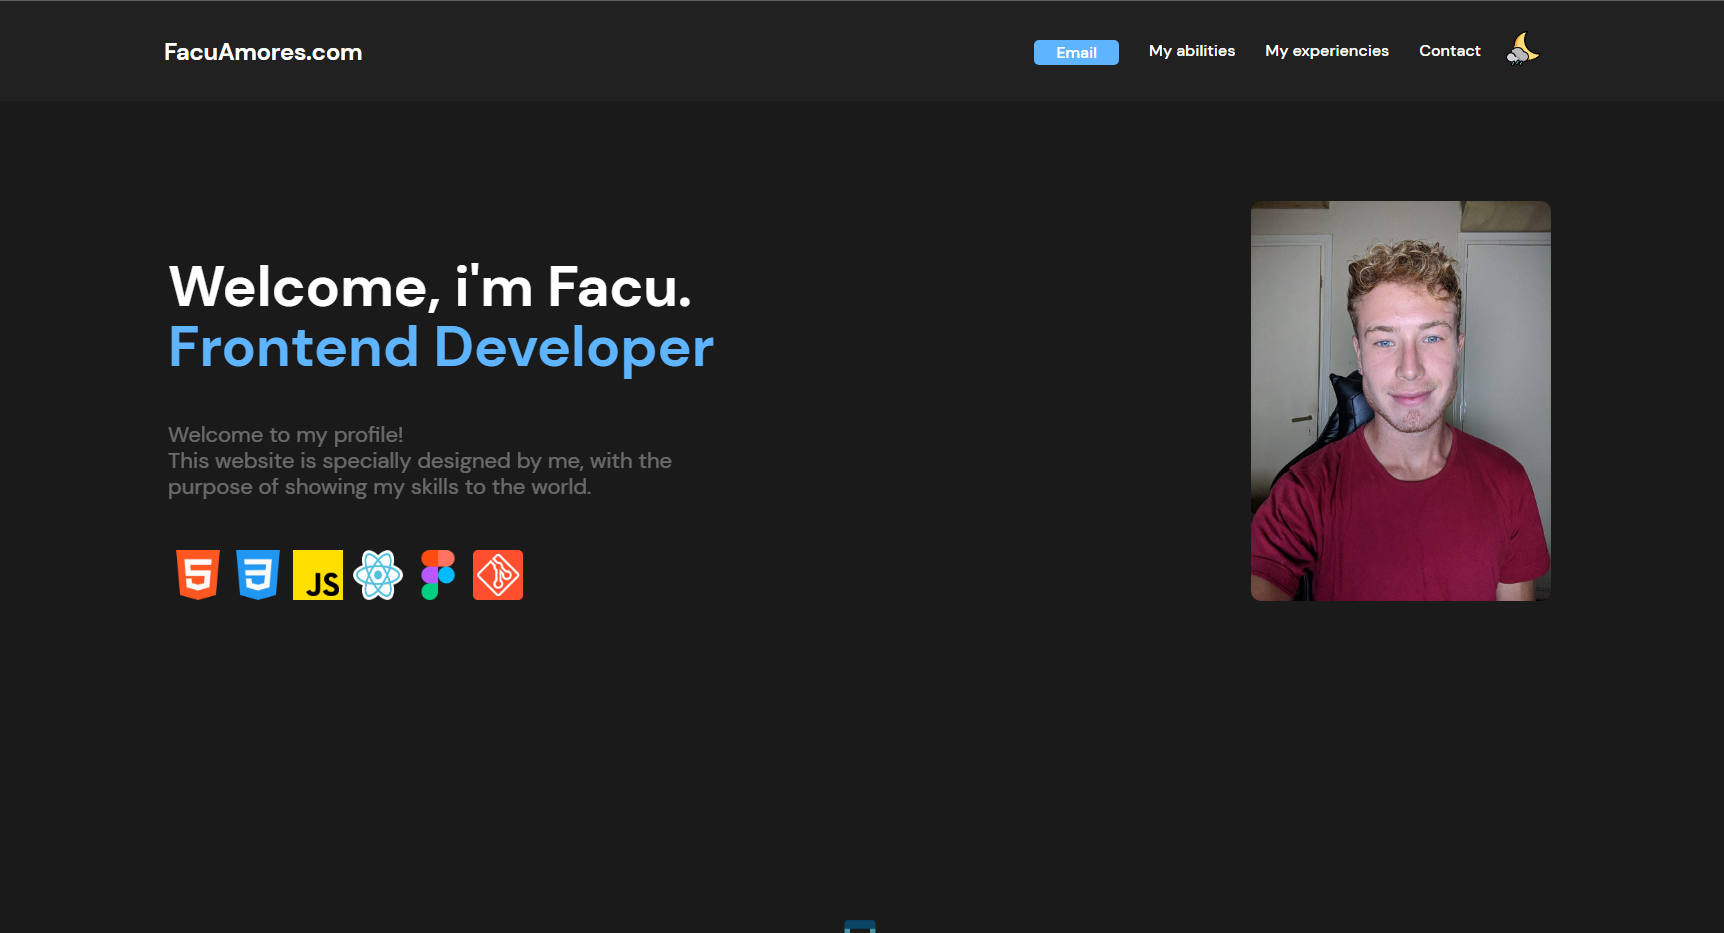
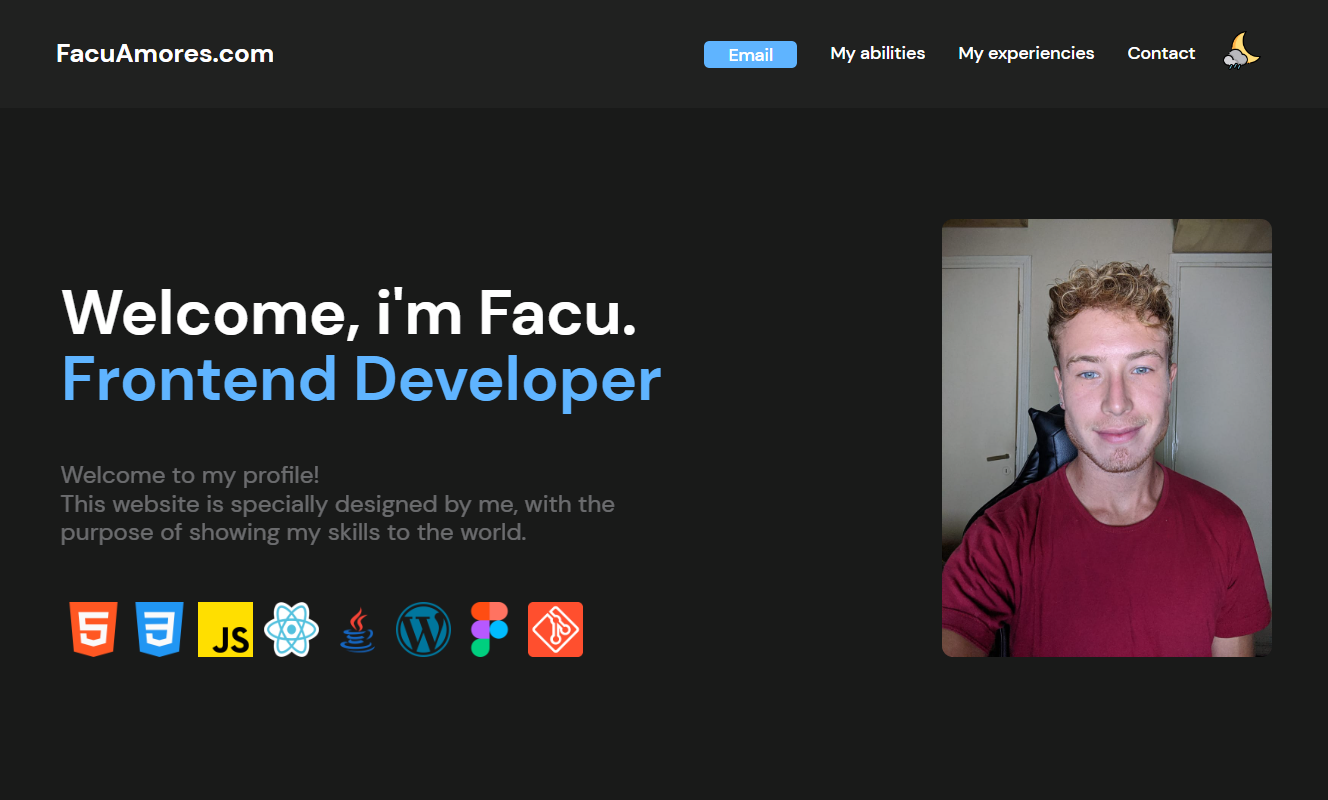
My-portfolio_2.0

diff --git a/index.html b/index.html
@@ -19,23 +19,25 @@
           <div class="icono_menu">
             <img src="./img/menu.png" alt="Menu">
           </div>
-          <ol id="elem_menu" class="elem_menu">
-            <ul>
-              <a href="mailto:facuamores@gmail.com"><button>Email</button></a>
-            </ul>
-            <ul>
-              <a href="#My-habilities">My abilities</a>
-            </ul>
-            <ul>
-              <a href="#My-Experiencies">My experiencies</a>
-            </ul>
-            <ul>
-              <a href="#footer">Contact</a>
-            </ul>
-            <ul>
-              <img src="./img/sunLogo.jpg" class="lightDarkBtn" id="lightDarkMode"></img>
-            </ul>
-          </ol>
+          <div id="elem_menu" class="elem_menu">
+            <ol>
+              <ul>
+                <a href="mailto:facuamores@gmail.com"><button>Email</button></a>
+              </ul>
+              <ul>
+                <a href="#My-habilities">My abilities</a>
+              </ul>
+              <ul>
+                <a href="#My-Experiencies">My experiencies</a>
+              </ul>
+              <ul>
+                <a href="#footer">Contact</a>
+              </ul>
+              <ul>
+                <img src="./img/sunLogo.jpg" class="lightDarkBtn"   id="lightDarkMode"></img>
+              </ul>
+            </ol>
+          </div>
         </nav>
       </div>
     </header>
@@ -57,6 +59,8 @@
             <img src="./img/css-3.png" alt="CSS">
             <img src="./img/js.png" alt="Javascript">
             <img src="./img/React.jpg" alt="React.js">
+            <img src="./img/java.png" alt="Java">
+            <img src="./img/wordpress.png" alt="">
             <img src="./img/figma.png" alt="Figma">
             <img src="./img/git.png" alt="Git">
           </div>
@@ -131,6 +135,32 @@
             <h3 class="My-habilities-info-description_h3">GitHub</h3>
           </div>
         </div>
+        <div class="My-habilities-info">
+          <div class="My-habilities-info_description" data-aos="zoom-in-down">
+            <img
+              class="My-habilities-info_description_img"
+              src="./img/c-sharp.png"
+              alt=""
+            />
+            <h3 class="My-habilities-info-description_h3">C</h3>
+          </div>
+          <div class="My-habilities-info_description" data-aos="zoom-in-down">
+            <img
+              class="My-habilities-info_description_img"
+              src="./img/java.png"
+              alt=""
+            />
+            <h3 class="My-habilities-info-description_h3">Java</h3>
+          </div>
+          <div class="My-habilities-info_description" data-aos="zoom-in-down">
+            <img
+              class="My-habilities-info_description_img"
+              src="./img/wordpress.png"
+              alt=""
+            />
+            <h3 class="My-habilities-info-description_h3">Wordpress</h3>
+          </div>
+        </div>
       </div>
     </section>
     <section id="My-Experiencies" class="My-Experiencies">
@@ -151,8 +181,8 @@
             </button>
           </a>
         </div>
-        <div class="My-Experiencies_Works" data-aos="flip-left">
-          <div class="My-Experiencies_Works_Div" >
+        <div class="My-Experiencies_Works" >
+          <div class="My-Experiencies_Works_Div" data-aos="flip-left">
             <a href="https://the-wild-proyect.web.app/"><img
               class="My-Experiencies_Works_Div_img"
               src="./img/TheWildProyect.png"
@@ -169,7 +199,7 @@
               Integrating <b>Meta descriptions </b> for <b> SEO positioning. </b>
             </p>
           </div>
-          <div class="My-Experiencies_Works_Div" >
+          <div class="My-Experiencies_Works_Div" data-aos="flip-left">
             <a href="https://latruchitienda.web.app/"><img
               class="My-Experiencies_Works_Div_img"
               src="./img/Truchitienda.png"
@@ -187,27 +217,79 @@
               is designed <b> Mobile First </b> with a minimalist design
             </p>
           </div>
-          <div class="My-Experiencies_Works_Div" >
-            <a href="https://facuamoresportfolio.vercel.app/">
+          <div class="My-Experiencies_Works_Div" data-aos="flip-left">
+            <a href="https://speedy-grill.com.ar/">
               <img
               class="My-Experiencies_Works_Div_img"
-              src="./img/Portfolio.jpg"
+              src="./img/Speedy.png"
               alt=""
             />
             </a>
             <div class="My-Experiencies_Works_Div_Tools">
+              <img class="My-Experiencies_Works_Div_ToolsImg" src="./img/wordpress.png" alt="Wordpress">
+              <img class="My-Experiencies_Works_Div_ToolsImg" src="./img/css-3.png" alt="CSS">
+            </div>
+            <h5 class="My-Experiencies_Works_Div_h5">
+              Speedy Grill
+            </h5>
+            <p class="My-Experiencies_Works_Div_p">
+              Real work that was done on summer 2022-2023 for Speedy Company, its a very important metallurgical company in my city.
+            </p>
+          </div>
+        </div>
+        <div class="My-Experiencies_Works" >
+          <div class="My-Experiencies_Works_Div" data-aos="flip-left">
+            <a href="http://mvconsultora.com/"><img
+              class="My-Experiencies_Works_Div_img"
+              src="./img/mvconsultora.png"
+              alt=""
+            /></a>
+            <div class="My-Experiencies_Works_Div_Tools">
+              <img class="My-Experiencies_Works_Div_ToolsImg" src="./img/React.jpg" alt="React">
+              <img class="My-Experiencies_Works_Div_ToolsImg" src="./img/javascript.png" alt="Javascript">
+              <img class="My-Experiencies_Works_Div_ToolsImg" src="./img/git.png" alt="Git">
+            </div>
+            <h5 class="My-Experiencies_Works_Div_h5">Mv Consultora</h5>
+            <p class="My-Experiencies_Works_Div_p">
+              This work was done with 3 partnerships with React.js .
+              It was our first work like freelancer made for a Company of our City.
+            </p>
+          </div>
+          <div class="My-Experiencies_Works_Div" data-aos="flip-left" >
+            <a href="https://github.com/Cufita/FootballReminder"><img
+              class="My-Experiencies_Works_Div_img"
+              src="./img/FootballReminder.png"
+              alt=""
+            /></a>
+            <div class="My-Experiencies_Works_Div_Tools">
               <img class="My-Experiencies_Works_Div_ToolsImg" src="./img/html-5.png" alt="HTML">
               <img class="My-Experiencies_Works_Div_ToolsImg" src="./img/css-3.png" alt="CSS">
               <img class="My-Experiencies_Works_Div_ToolsImg" src="./img/javascript.png" alt="Javascript">
-              <img class="My-Experiencies_Works_Div_ToolsImg" src="./img/figma.png" alt="Figma">
               <img class="My-Experiencies_Works_Div_ToolsImg" src="./img/git.png" alt="Git">
             </div>
+            <h5 class="My-Experiencies_Works_Div_h5">Football Reminder </h5>
+            <p class="My-Experiencies_Works_Div_p">
+              This is an extension for Google Chrome who reminds when your favorite Team is going to play his next match. <b>IN COMING...</b>
+            </p>
+          </div>
+          <div class="My-Experiencies_Works_Div" data-aos="flip-left">
+            <a href="https://inteligenciaartificials.com/">
+              <img
+              class="My-Experiencies_Works_Div_img"
+              src="./img/InteligenciaArtificials.png"
+              alt="Inteligencia Artificials web"
+            />
+            </a>
+            <div class="My-Experiencies_Works_Div_Tools">
+              <img class="My-Experiencies_Works_Div_ToolsImg" src="./img/wordpress.png" alt="Wordpress">
+              <img class="My-Experiencies_Works_Div_ToolsImg" src="./img/css-3.png" alt="CSS">
+              <img class="My-Experiencies_Works_Div_ToolsImg" src="./img/seo.png" alt="SEO">
+            </div>
             <h5 class="My-Experiencies_Works_Div_h5">
-              Professional portfolio
+              Inteligencia Artificials
             </h5>
             <p class="My-Experiencies_Works_Div_p">
-              Portfolio with dark mode made to show my skills and my jobs. 
-            <b>Responsive</b> and animated with the <b> AoS library.js </b>
+              <b>SEO webpage</b> made together with a biggest friend, with the pourpose of learning SEO. With all the meta recomendations.
             </p>
           </div>
         </div>

diff --git a/style.css b/style.css
@@ -23,8 +23,8 @@
 }
 
 .container {
-  margin-left: 20vw;
-  margin-right: 20vw;
+  margin-left: 18vw;
+  margin-right: 18vw;
 }
 
 .column {
@@ -354,7 +354,6 @@ header div nav ol ul a button:hover {
 
 .My-habilities-info {
   display: flex;
-  margin: 50px;
   flex-direction: row;
   justify-content: space-around;
 }
@@ -535,10 +534,11 @@ header div nav ol ul a button:hover {
 
 .My-Experiencies_Works_Div {
   display: flex;
-  width: 370px;
+  width: 90vw;
   height: 220px;
   flex-direction: column;
   margin: 15px;
+  margin-bottom: 250px;
 }
 
 .My-Experiencies_Works_Div a {
@@ -680,14 +680,45 @@ footer {
 @media only screen and (max-width: 1199px) {
   /* Css for the mobile menu when the screen are more smallest */
 
+  .container .column {
+    margin: 0vh;
+    display: flex;
+    justify-content: center;
+    align-items: center;
+  }
+
   .icono_menu {
     display: flex;
   }
 
   .elem_menu {
-    display: flex;
+    display: none;
     position: absolute;
+    top: 0;
+    right: 0;
+    left: 0;
+    height: 100vh;
+    width: 45%;
+    background-color: #218ca7;
+    box-shadow: 0 0 0 100vmax rgba(0, 0, 0, 0.7);
+  }
+
+  .elem_menu > ol {
+    display: flex;
     flex-direction: column;
+    align-items: start;
+    padding: 3em;
+  }
+
+  header div nav ol {
+    align-items: center;
+    width: revert;
+    justify-content: revert;
+  }
+
+  header div nav ol ul a {
+    font-size: 30px;
+    color: white;
   }
 
   /* Estilos para computadoras de escritorio y laptops */
@@ -705,7 +736,7 @@ footer {
   }
 
   .Mi-info-div-MyImg_img {
-    width: 370px;
+    width: 100%;
     display: flex;
     border-radius: 150px;
   }
@@ -754,7 +785,7 @@ footer {
   }
 
   .My-Experiencies_Works_Div a {
-    width: 570px;
+    width: 65vw;
     height: auto;
   }
 
@@ -771,7 +802,7 @@ footer {
   .My-Experiencies_Works_Div_p {
     margin: 15px;
     font-size: 26px;
-    width: 550px;
+    width: 90%;
     text-align: center;
     letter-spacing: -0.9px;
     word-spacing: 2px;
@@ -781,11 +812,18 @@ footer {
     font-size: 30px;
   }
 
+  .footer {
+  }
+
   .footer > h5,
   p {
-    font-size: 7vw;
+    font-size: 10vw;
   }
   .footer > a > p {
     font-size: 8vw;
+  }
+
+  .footer_socialMedia img {
+    width: 25px;
   }
 }
